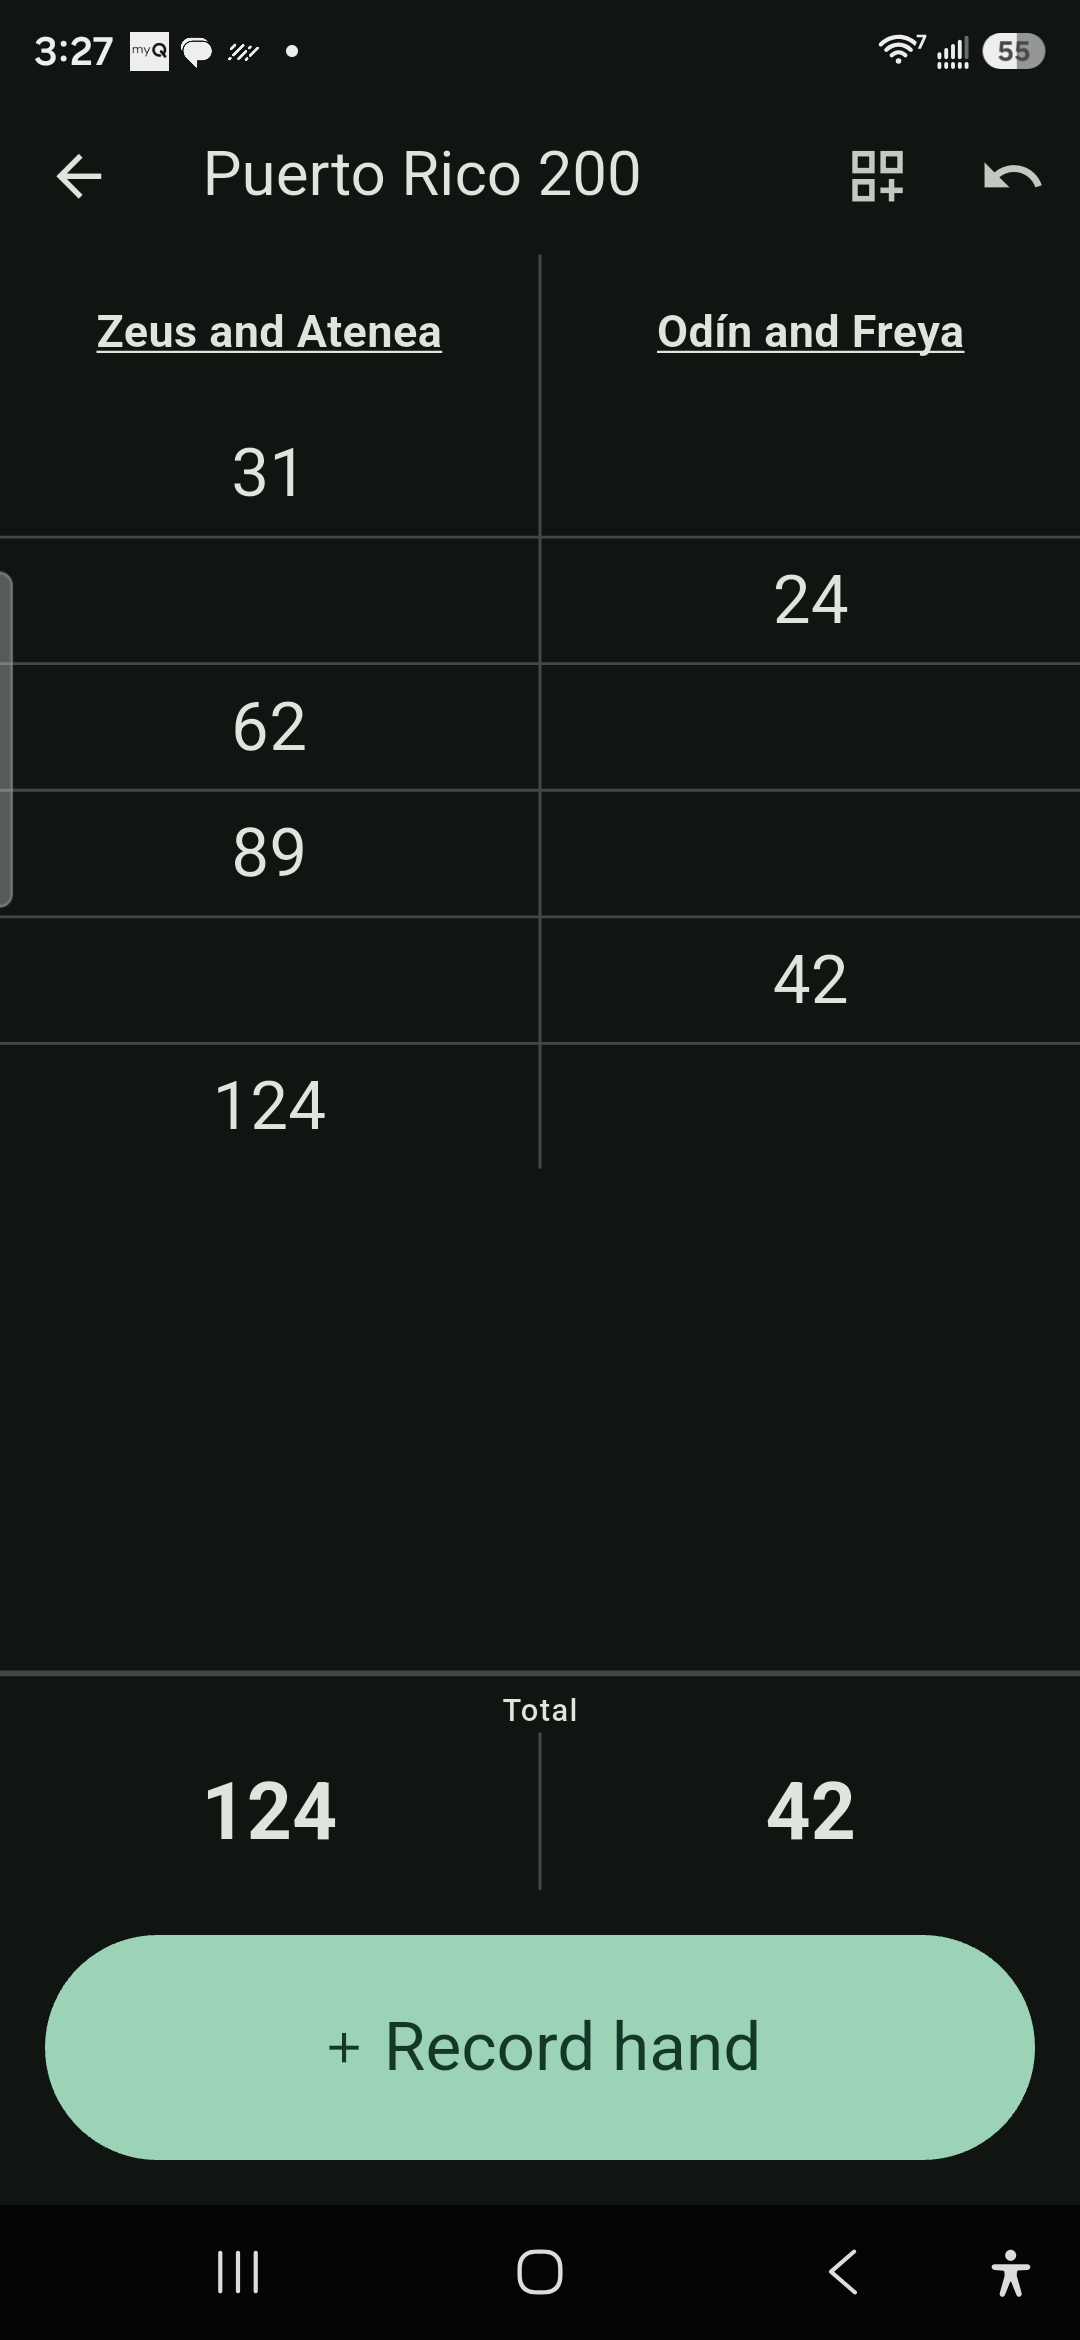
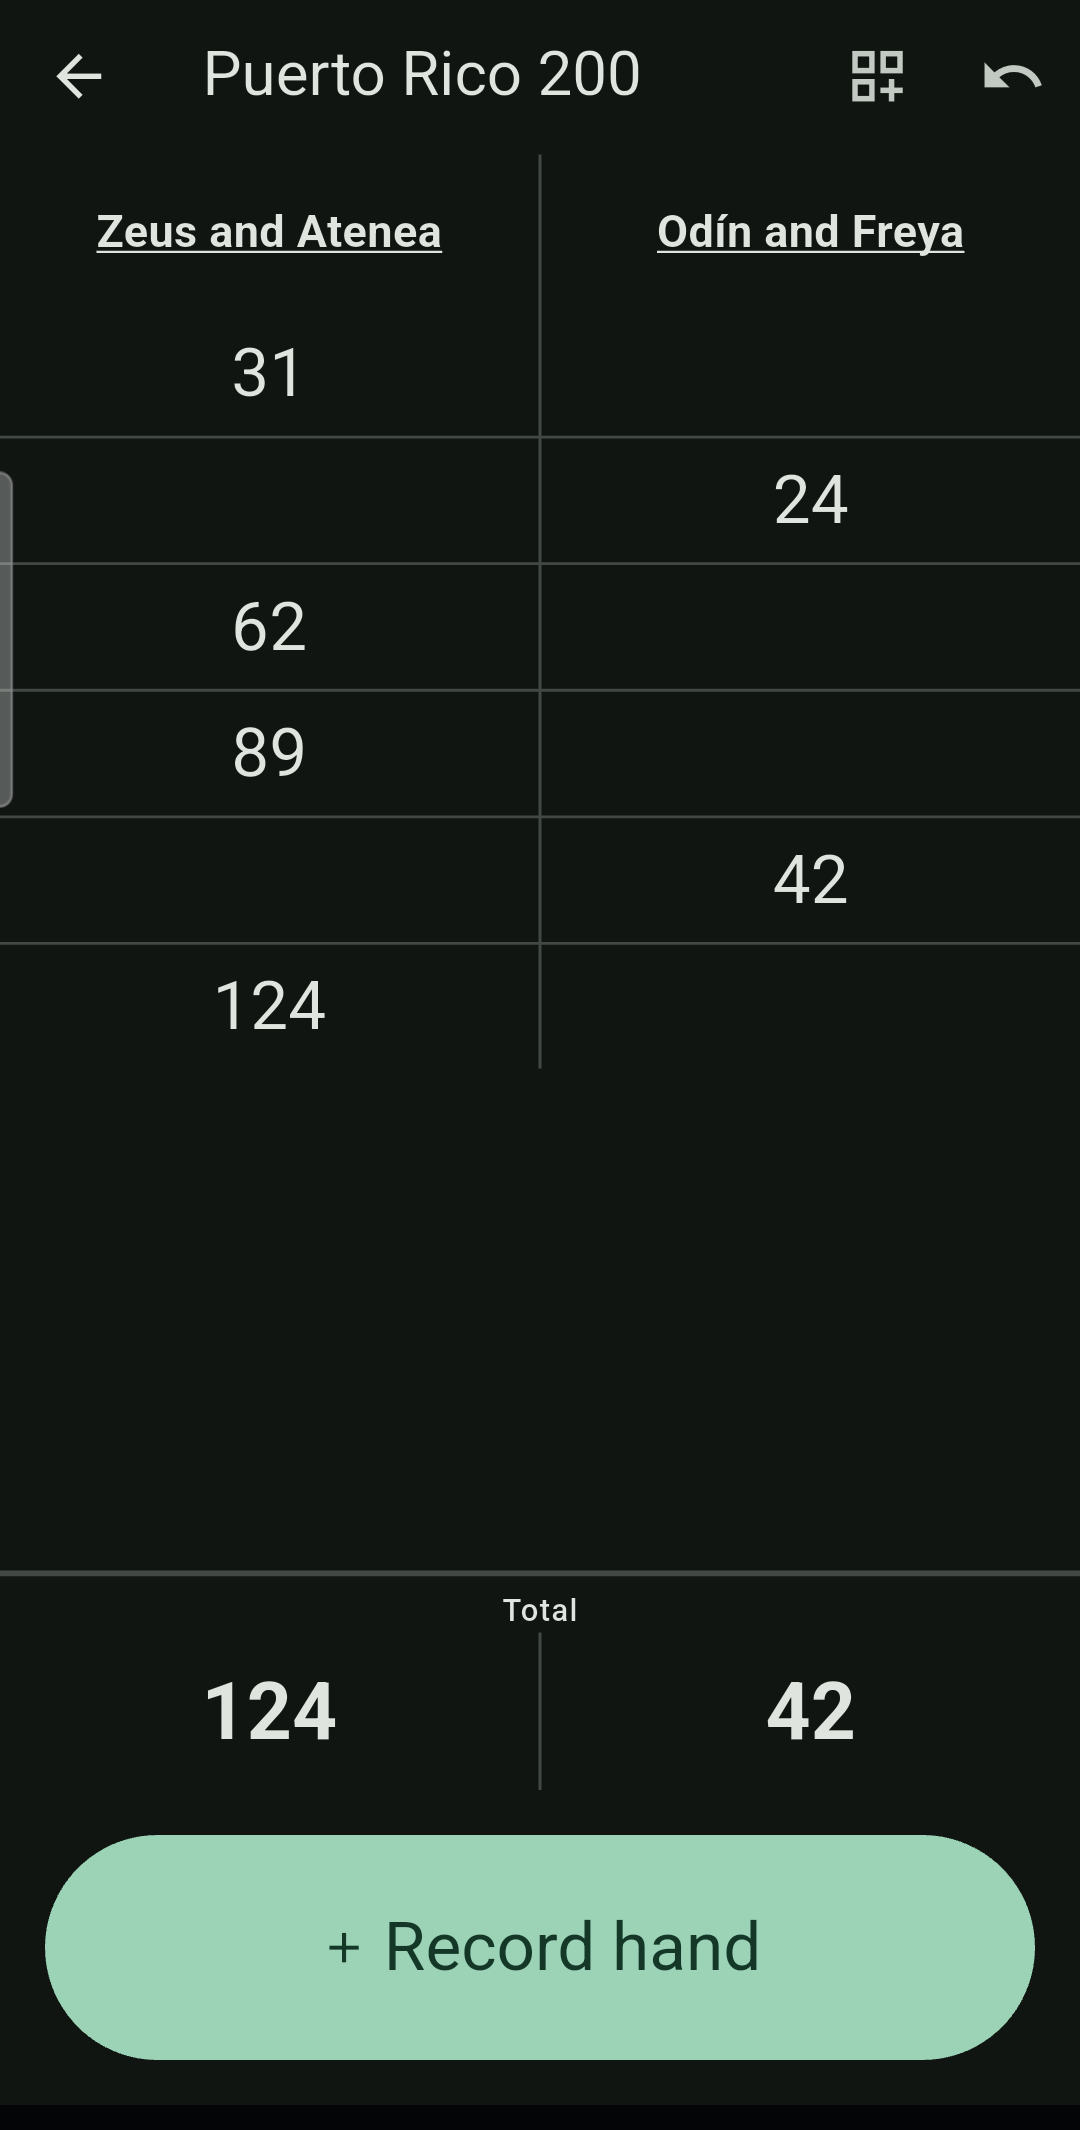
Crop the phone chrome out of the screenshots
The status bar shows which apps have notifications waiting and the navigation
bar belongs to the phone, not to this app. Neither has a place in a picture of
the app on a public page. 1080x2340 -> 1080x2130.

diff --git a/dominada/index.html b/dominada/index.html
@@ -66,15 +66,15 @@
 <section>
   <h2>Cómo se ve</h2>
   <figure>
-    <img src="../img/dominada/partidas.png" alt="Pantalla de partidas: la partida activa con el marcador y la meta." width="1080" height="2340">
+    <img src="../img/dominada/partidas.png" alt="Pantalla de partidas: la partida activa con el marcador y la meta." width="1080" height="2130">
     <figcaption>La partida activa, lista para continuar.</figcaption>
   </figure>
   <figure>
-    <img src="../img/dominada/tablero.png" alt="Tablero: los totales de cada pareja y el detalle de cada mano." width="1080" height="2340">
+    <img src="../img/dominada/tablero.png" alt="Tablero: los totales de cada pareja y el detalle de cada mano." width="1080" height="2130">
     <figcaption>Vista tarjeta: los totales grandes y el detalle de cada mano.</figcaption>
   </figure>
   <figure>
-    <img src="../img/dominada/libreta.png" alt="Vista libreta: nombres subrayados arriba, una raya entre las columnas y una línea entre rondas." width="1080" height="2340">
+    <img src="../img/dominada/libreta.png" alt="Vista libreta: nombres subrayados arriba, una raya entre las columnas y una línea entre rondas." width="1080" height="2130">
     <figcaption>Vista libreta, igual que se anota en papel.</figcaption>
   </figure>
 </section>

diff --git a/dominada/en/index.html b/dominada/en/index.html
@@ -64,15 +64,15 @@
 <section>
   <h2>What it looks like</h2>
   <figure>
-    <img src="../../img/dominada/partidas.png" alt="Games screen: the active game with the score and the target." width="1080" height="2340">
+    <img src="../../img/dominada/partidas.png" alt="Games screen: the active game with the score and the target." width="1080" height="2130">
     <figcaption>The game in play, ready to resume.</figcaption>
   </figure>
   <figure>
-    <img src="../../img/dominada/tablero.png" alt="Scoreboard: each team's total and every hand broken down." width="1080" height="2340">
+    <img src="../../img/dominada/tablero.png" alt="Scoreboard: each team's total and every hand broken down." width="1080" height="2130">
     <figcaption>Card view: large totals and every hand broken down.</figcaption>
   </figure>
   <figure>
-    <img src="../../img/dominada/libreta.png" alt="Notepad view: underlined names, a rule between the columns and a line between rounds." width="1080" height="2340">
+    <img src="../../img/dominada/libreta.png" alt="Notepad view: underlined names, a rule between the columns and a line between rounds." width="1080" height="2130">
     <figcaption>Notepad view, the way it is written on paper.</figcaption>
   </figure>
 </section>

diff --git a/img/dominada/README.md b/img/dominada/README.md
@@ -5,7 +5,7 @@ icon changes; it is not generated here.
 
 ## Screenshots
 
-Captured from a real phone (1080x2340), release build, with **invented player
+Captured from a real phone, release build, with **invented player
 names** — Zeus and Atenea against Odín and Freya. A screenshot of a live game
 shows whoever was actually playing, and this repository is public.
 
@@ -14,6 +14,12 @@ shows whoever was actually playing, and this repository is public.
 | `partidas.png` | The games screen with a game in play |
 | `tablero.png` | The scoreboard, card view, hands broken down |
 | `libreta.png` | The scoreboard, notepad view |
+
+All are 1080x2130: captured at 1080x2340 and cropped. The status bar shows
+which apps have notifications waiting and the navigation bar is the phone's,
+not the app's — neither belongs in a picture of *this* app on a public page.
+Crop with `py -3 tools/crop_png.py shot.png --top 100 --bottom 110` from the
+app repository.
 
 ### How they were taken
 
